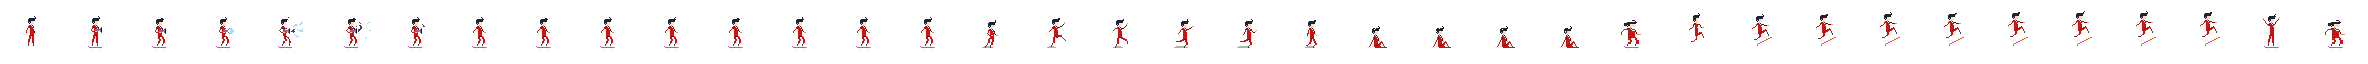
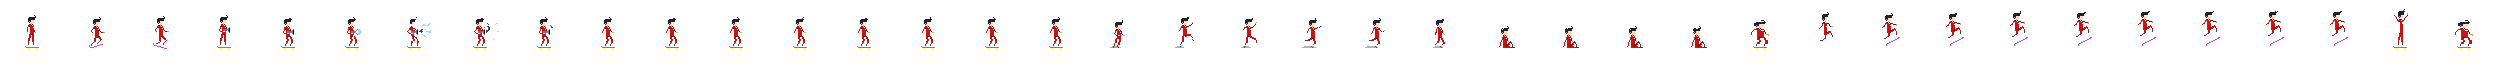
(1/2) [sprite] Animação de persongem mudando de pista

Changed region(s): [[0.0, 0.1875, 1.0, 0.75], [0.75, 0.5625, 0.8125, 0.6875], [0.9375, 0.7188, 0.9688, 0.75]]

diff --git a/CareerOpportunities/PlayerController.cs b/CareerOpportunities/PlayerController.cs
@@ -32,6 +32,8 @@ namespace CareerOpportunities
             AFTER_JUMP,
             BEFORE_FIRE,
             AFTER_FIRE,
+            VERTICAL_UP,
+            VERTICAL_DOWN,
             
         }
         public stateAnimation currentAnimation;
@@ -52,9 +54,9 @@ namespace CareerOpportunities
             int linePosition = (32 * scale);
             Lines = new int[] {
                 BufferHeight - linePosition  + (-5 * scale),
-                BufferHeight - (linePosition *2) + (5 * scale),
-                BufferHeight - (linePosition * 3) + (11 * scale),
-                BufferHeight - (linePosition * 4) + (24 * scale),
+                BufferHeight - (linePosition * 2) + (5 * scale),
+                BufferHeight - (linePosition * 3) + (15 * scale),
+                BufferHeight - (linePosition * 4) + (25 * scale),
                 BufferHeight - (linePosition * 5) + (35 * scale),
                 BufferHeight - (linePosition * 6) + (45 * scale),
             };
@@ -75,7 +77,10 @@ namespace CareerOpportunities
         {
             if (this.isGrounded)
             {
-                if (Position.Y == Lines[CurrentVerticalLine]) canMoveVertical = true;
+                if (Position.Y == Lines[CurrentVerticalLine] && this.currentAnimation == PlayerController.stateAnimation.RUN)
+                {
+                    canMoveVertical = true;
+                }
                 else
                 {
                     if (
@@ -83,16 +88,19 @@ namespace CareerOpportunities
                         (CurrentVerticalLine > PreviousVerticalLine && Lines[CurrentVerticalLine] > Position.Y))
                     {
                         Position = new Vector2(Position.X, Lines[CurrentVerticalLine]);
+                        this.currentAnimation = PlayerController.stateAnimation.RUN;
                     }
                     else
                     {
                         if (Position.Y < Lines[CurrentVerticalLine])
                         {
                             Position = new Vector2(Position.X, Position.Y + PlayerVerticalVelocity);
+                            this.currentAnimation = PlayerController.stateAnimation.VERTICAL_DOWN;
                         }
                         else if (Position.Y > Lines[CurrentVerticalLine])
                         {
                             Position = new Vector2(Position.X, Position.Y - PlayerVerticalVelocity);
+                            this.currentAnimation = PlayerController.stateAnimation.VERTICAL_UP;
                         }
                     }
                 }
@@ -110,6 +118,8 @@ namespace CareerOpportunities
 
                     if (this.runTimes == 4) this.runTimes = 0;
                 }
+                else if (this.isGrounded && this.currentAnimation == PlayerController.stateAnimation.VERTICAL_UP) this.play(gameTime, "up");
+                else if (this.isGrounded && this.currentAnimation == PlayerController.stateAnimation.VERTICAL_DOWN) this.play(gameTime, "down");
                 else if (this.isGrounded && this.currentAnimation == PlayerController.stateAnimation.BEFORE_FIRE)
                 {
                     if (this.lastFrame)

diff --git a/CareerOpportunities/Game1.cs b/CareerOpportunities/Game1.cs
@@ -58,8 +58,8 @@ namespace CareerOpportunities
             this.scale = 3;
             this.Level = 1;
             graphics = new GraphicsDeviceManager(this);
-            graphics.PreferredBackBufferWidth = 288 * scale;
-            graphics.PreferredBackBufferHeight = 162 * scale;
+            graphics.PreferredBackBufferWidth = 288 * this.scale;
+            graphics.PreferredBackBufferHeight = 162 * this.scale;
             graphics.GraphicsProfile = GraphicsProfile.HiDef;
             Window.AllowUserResizing = true;
             // graphics.ToggleFullScreen();
